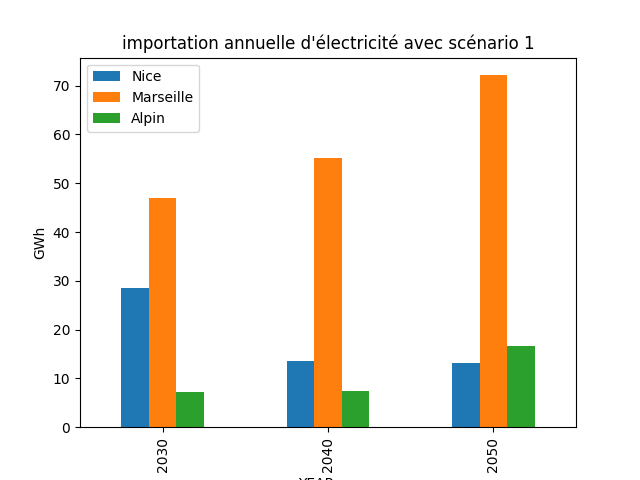
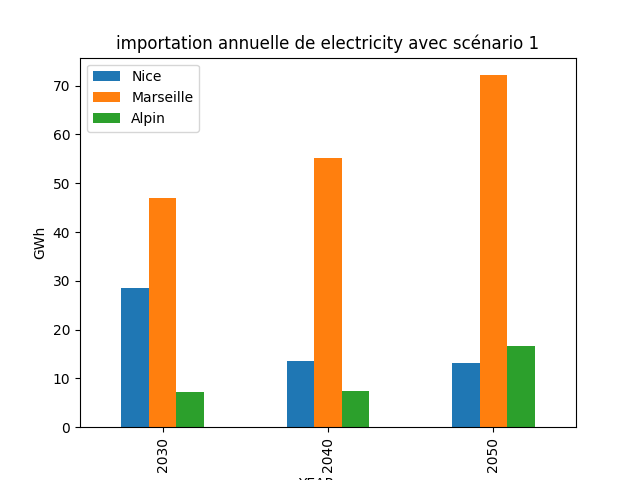
amélioration plot_result2.py

Changed region(s): [[0.1875, 0.0625, 0.8438, 0.125]]

diff --git a/plot_results2.py b/plot_results2.py
@@ -12,12 +12,24 @@ vlist = ['capacityInvest_Dvar', 'transInvest_Dvar', 'capacity_Pvar', 'capacityDe
          'stockLevel_Pvar', 'importation_Dvar', 'Cmax_Pvar', 'carbon_Pvar', 'powerCosts_Pvar', 'capacityCosts_Pvar', 'importCosts_Pvar', 'storageCosts_Pvar', 'turpeCosts_Pvar', 'Pmax_Pvar', 'max_PS_Dvar', 'carbonCosts_Pvar',
          'Tmaxtot_Pvar']
 
+def create_res_dict(outputFolder):
+    """returns result dictionary where each key is a csv file's name and the correspondant value is the file"""
+    return {v: pd.read_csv(outputFolder + '/' + v +
+                          '.csv').drop(columns='Unnamed: 0') for v in vlist}
+
+def split_df(variable, dff, entity_list, df_res):
+    """add columns to df_res corresponding to sliced dataframes from dff depending on entity_list """
+    dic = {}
+    for entity in entity_list:
+        dic[entity] = dff.loc[(slice(None), entity), :]
+        df_res[entity] = pd.DataFrame(dic[entity].values, index=dic[entity].index.droplevel(
+            1), columns=[variable])[variable]
+
 
 def show_power_Dvar(outputFolder='out_scenario1'):
-    '''shows the 'power_Dvar' by year and area from all tech'''
+    '''shows the annual energy consumption by year and area from all tech'''
 
-    res = {v: pd.read_csv(outputFolder + '/' + v +
-                          '.csv').drop(columns='Unnamed: 0') for v in vlist}
+    res = create_res_dict(outputFolder)
 
     df = res['power_Dvar'].set_index(
         ['YEAR_op', 'TIMESTAMP', 'TECHNOLOGIES', 'AREA'])
@@ -26,11 +38,13 @@ def show_power_Dvar(outputFolder='out_scenario1'):
     df_year = pd.DataFrame()
     df_year_area = df.groupby(['YEAR_op', 'AREA']).sum()
 
-    dic = {}
-    for ville in areaList:
-        dic[ville] = df_year_area.loc[(slice(None), ville), :]
-        df_year[ville] = pd.DataFrame(dic[ville].values, index=dic[ville].index.droplevel(
-            1), columns=['power_Dvar'])['power_Dvar']
+    # dic = {}
+    # for ville in areaList:
+    #     dic[ville] = df_year_area.loc[(slice(None), ville), :]
+    #     df_year[ville] = pd.DataFrame(dic[ville].values, index=dic[ville].index.droplevel(
+    #         1), columns=['power_Dvar'])['power_Dvar']
+    
+    split_df('power_Dvar',df_year_area,areaList,df_year)
 
     df_year /= 1e3
     df_year.plot(kind='bar')
@@ -43,8 +57,7 @@ def show_power_Dvar(outputFolder='out_scenario1'):
 
 def show_import_Dvar(outputFolder='out_scenario1'):
     """shows import by year by ressource by area"""
-    res = {v: pd.read_csv(outputFolder + '/' + v +
-                          '.csv').drop(columns='Unnamed: 0') for v in vlist}
+    res = create_res_dict(outputFolder)
 
     df = res['importation_Dvar'].set_index(
         ['YEAR_op', 'TIMESTAMP', 'RESOURCES', 'AREA'])
@@ -53,19 +66,21 @@ def show_import_Dvar(outputFolder='out_scenario1'):
     df2 = df.groupby(['YEAR_op', 'RESOURCES', 'AREA']).sum()
 
     # for electricity and hydrogen by year and area
-    for variable in ['electricity', 'hydrogen']:
-        df3 = df2.loc[(slice(None), variable, slice(None)), :]
+    for resource in ['electricity', 'hydrogen']:
+        df3 = df2.loc[(slice(None), resource, slice(None)), :]
         df4 = pd.DataFrame(df3.values,
                            index=df3.index.droplevel(1),
                            columns=['importation_Dvar']
                            )
 
         df_year = pd.DataFrame()
-        dic = {}
-        for ville in areaList:
-            dic[ville] = df4.loc[(slice(None), ville), :]
-            df_year[ville] = pd.DataFrame(dic[ville].values, index=dic[ville].index.droplevel(
-                1), columns=['importation_Dvar'])['importation_Dvar']
+        # dic = {}
+        # for ville in areaList:
+        #     dic[ville] = df4.loc[(slice(None), ville), :]
+        #     df_year[ville] = pd.DataFrame(dic[ville].values, index=dic[ville].index.droplevel(
+        #         1), columns=['importation_Dvar'])['importation_Dvar']
+
+        split_df('import_Dvar',df4,areaList,df_year)
 
         # affichage
         # return df_year
@@ -75,14 +90,15 @@ def show_import_Dvar(outputFolder='out_scenario1'):
         plt.legend()
         # juste pour présentation
         plt.title(
-            f'importation annuelle d\'électricité avec scénario {outputFolder[-1]}')
-        plt.savefig(f'show_import_Dvar_{variable}_{outputFolder}')
+            f'importation annuelle de {resource} avec scénario {outputFolder[-1]}')
+        plt.savefig(f'show_import_Dvar_{resource}_{outputFolder}')
 
 
 def show_storageConsumption_Pvar(outputFolder='out_scenario1'):
-    """shows storageConsumption_Pvar by year by ressource by area for all stech"""
-    res = {v: pd.read_csv(outputFolder + '/' + v +
-                          '.csv').drop(columns='Unnamed: 0') for v in vlist}
+    """shows storageConsumption_Pvar by year by ressource by area for all stech,
+    to be upgraded"""
+    res = create_res_dict(outputFolder)
+
     df = res['storageConsumption_Pvar'].set_index(
         ['YEAR_op', 'TIMESTAMP', 'STOCK_TECHNO', 'AREA'])
     df.dropna(inplace=True)
@@ -107,9 +123,9 @@ def show_storageConsumption_Pvar(outputFolder='out_scenario1'):
 
 
 def show_Tmax_tot(outputFolder='out_scenario1'):
-    """show max transport flow by year and ttech from all transport axes"""
-    res = {v: pd.read_csv(outputFolder + '/' + v +
-                          '.csv').drop(columns='Unnamed: 0') for v in vlist}
+    """show transport units by year and ttech from all transport axes"""
+    res = create_res_dict(outputFolder)
+
     df = res['Tmaxtot_Pvar'].set_index(
         ['YEAR_invest', 'TRANS_TECHNO', 'AREA', 'AREA.1'])
     df.dropna(inplace=True)
@@ -118,14 +134,16 @@ def show_Tmax_tot(outputFolder='out_scenario1'):
     df_year.columns = ['Total']
     df2 = df.groupby(['YEAR_invest', 'TRANS_TECHNO']).sum()
 
-    dic = {}
-    for ttech in ttechs_list:
-        dic[ttech] = df2.loc[(slice(None), ttech), :]
-        df_year[ttech] = pd.DataFrame(dic[ttech].values, index=dic[ttech].index.droplevel(
-            1), columns=['capacityCosts_Pvar'])['capacityCosts_Pvar']
+    # dic = {}
+    # for ttech in ttechs_list:
+    #     dic[ttech] = df2.loc[(slice(None), ttech), :]
+    #     df_year[ttech] = pd.DataFrame(dic[ttech].values, index=dic[ttech].index.droplevel(
+    #         1), columns=['Tmaxtot_Pvar'])['Tmaxtot_Pvar']
+
+    split_df('Tmaxtot_Pvar',df2,ttechs_list,df_year)
 
     df_year.columns = ["Total", "Pipeline_S", "Pipeline_M",
-                       "Pipeline_M", "Camion transporteur d'hydrogène"]
+                       "Pipeline_L", "Camion transporteur d'hydrogène"]
     # affichage
     # return df_year
 
@@ -140,8 +158,8 @@ def show_Tmax_tot(outputFolder='out_scenario1'):
 
 def show_capacityCosts(outputFolder='out_scenario1'):
     """shows capacityCosts_Pvar (capex and opex) by year by ressource by area for all stech"""
-    res = {v: pd.read_csv(outputFolder + '/' + v +
-                          '.csv').drop(columns='Unnamed: 0') for v in vlist}
+    res = create_res_dict(outputFolder)
+
     df = res['capacityCosts_Pvar'].set_index(
         ['YEAR_op', 'TECHNOLOGIES', 'AREA'])
     df.dropna(inplace=True)
